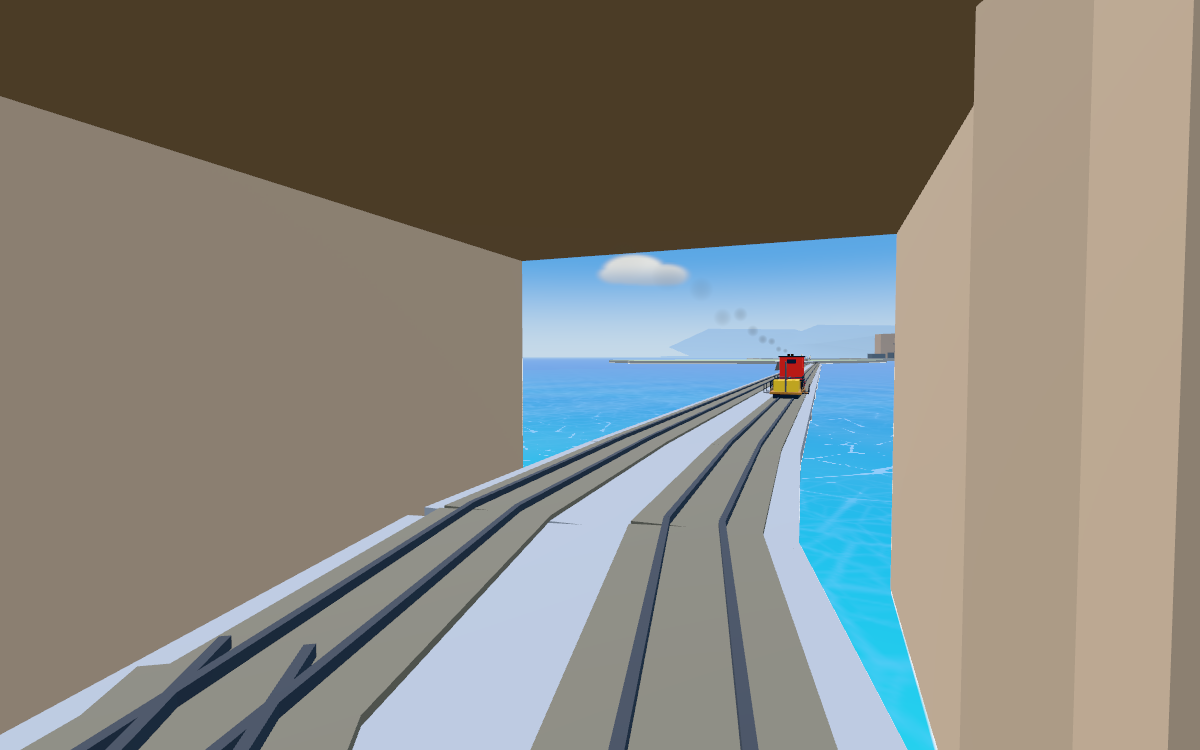
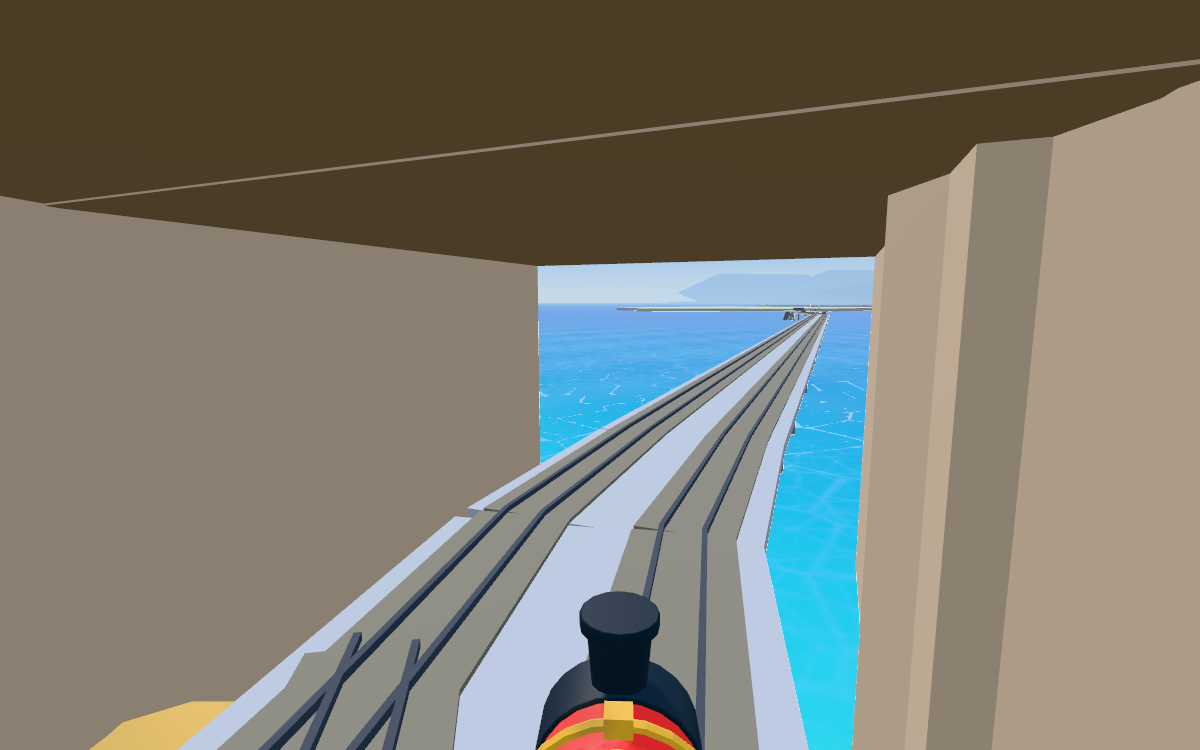
Hold the sampled engine pose so the train stays in its verification still

diff --git a/dev/look/evals/cave-train-view.ts b/dev/look/evals/cave-train-view.ts
@@ -1,7 +1,9 @@
-// npm run look -- --rail-seed cave-mid --query caveview=hood --action dev/look/evals/cave-train-view.ts --warm 3 --size 1200x750 --name cave-train-hood
+// npm run look -- --rail-seed cave-mid --query caveview=hood --action dev/look/evals/cave-train-view.ts --filmstrip 2 --every 1 --warm 1 --size 1200x750 --name cave-train-hood
 // --rail-seed cave-mid (hood, face, head) or port-reached (salt), --action this file.
-// The camera rides the rendered engine's frame for the pass. At the Saltpan, call a
+// Sample the rendered engine and advance one filmstrip frame under the hood, past the face or at head 1. Call a
 // real train with the platform lever and wait for the host to record its stop.
+const warp = (window as Window & { __warp?: import('../warp.ts').WarpHandle }).__warp;
+warp?.go(1);
 const { me } = (await import('/src/player/player.ts' as string)) as typeof import('../../../src/player/player.ts');
 const { teleport } = (await import(
   '/src/physics/engine.ts' as string
@@ -59,10 +61,14 @@ for (;;) {
     if (salt) window.__debugCam!.set([561, 8, 706], [engine.x, engine.y + 1, engine.z], 62);
     else
       window.__debugCam!.set(
-        [engine.x, engine.y + 2.4, engine.z],
-        [engine.x + p.ux * 30, engine.y + 1.4, engine.z + p.uz * 30],
+        [engine.x - p.ux * 1.2, engine.y + 4.6, engine.z - p.uz * 1.2],
+        [engine.x + p.ux * 30, engine.y + 0.5, engine.z + p.uz * 30],
         68,
       );
+    if (warp && !salt) {
+      warp.pause();
+      await warp.step(1);
+    }
     console.log('CAVE train camera', beat, train.along / 100, train.at, train.phase);
     break;
   }
